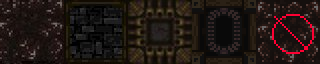
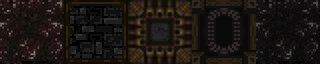
replace barrierwall

Changed region(s): [[0.7812, 0.0, 1.0, 1.0]]

diff --git a/README.md b/README.md
@@ -1,24 +1,13 @@
 
 
-
-
-
-
-
-
-
-
-
-
-
 EXTREMELY WIP but currently playable without compilation errors or major gameplay bugs.
 
 
-godot 4.5 (delete .godot folder in project to refresh shaders, you'll need to do that if you get any errors or weird visual bugs)
+godot 4.7 (delete .godot folder in project to refresh shaders, you'll need to do that if you get any errors or weird visual bugs)
 
 roguetown in godot, sprites/mechanics from here [https://github.com/Rotwood-Vale/Ratwood-Keep] (https://github.com/SS13-Special-Codebases-Archive/RogueTown)
 
-just download godot 4.5 and open project.godot inside godot, no external tools needed. (for the smoke test you need to put the project files into a new folder, and in the folder above the project place the godot 4.5.exe
+just download godot 4.7 and open project.godot inside godot, no external tools needed. (for the smoke test you need to put the project files into a new folder, and in the folder above the project place the godot 4.7.exe
 
 
 
